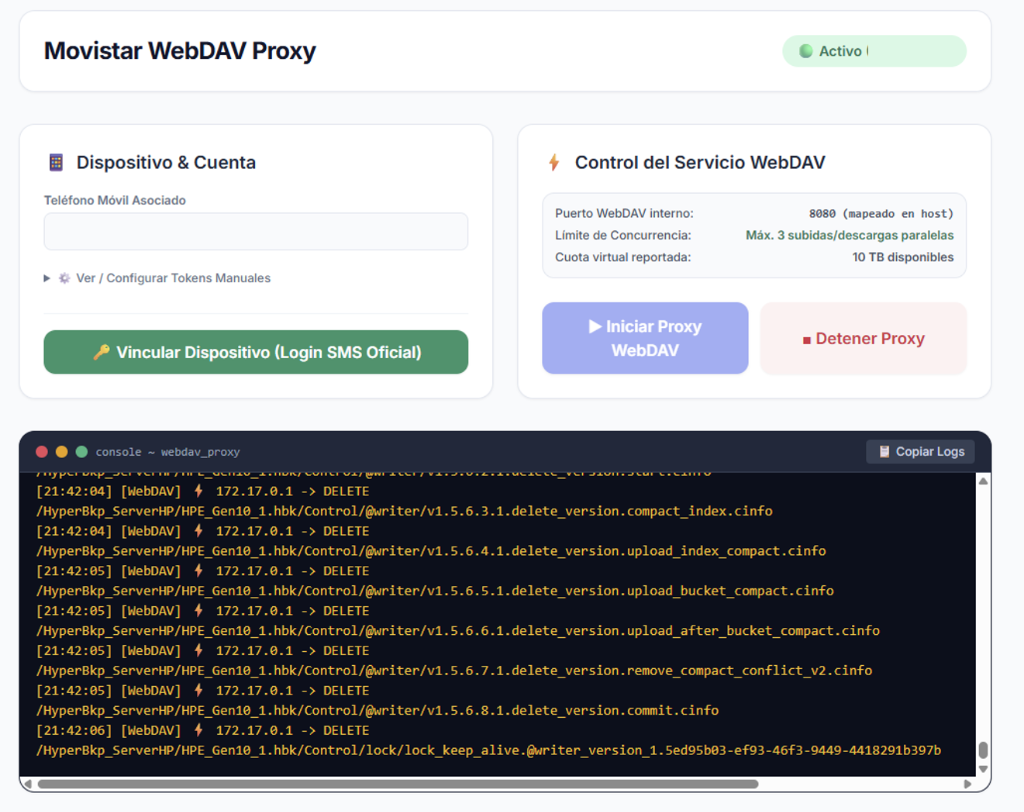
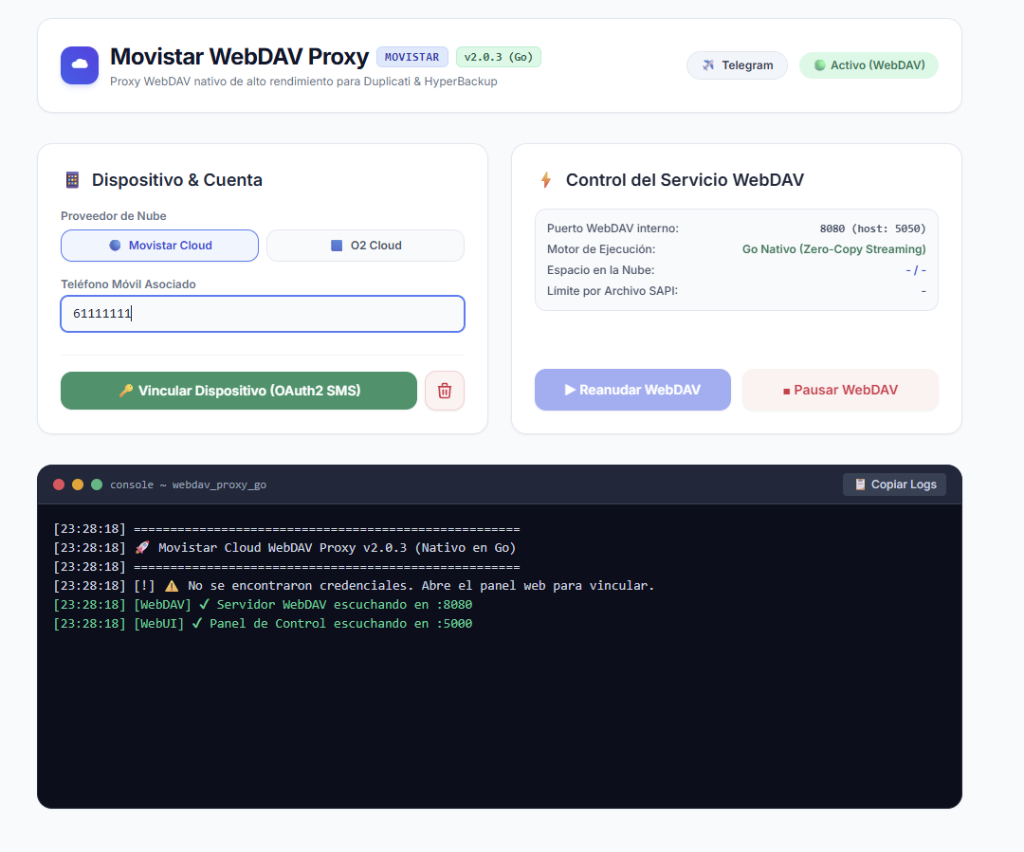
docs: add updated v2.0.3 dashboard screenshot with O2 Cloud selector and unlinking button to README

diff --git a/README.md b/README.md
@@ -16,11 +16,15 @@ Turn your unlimited Movistar Cloud storage into a transparent, secure, and remot
 > The original Python + Chromium/noVNC implementation is preserved in the [`legacy-python`](https://github.com/uniextra/MovistarWebDAVProxy/tree/legacy-python) branch.  
 > Version 2.0.0 is a complete ground-up rewrite in native Go, reducing container image size from **~1.34 GB down to ~20 MB** and RAM usage from **~150 MB down to ~6.5 MB**.
 
+<p align="center">
+  <img src="screenshot.png" alt="Movistar & O2 Cloud WebDAV Proxy Web Dashboard" width="850">
+</p>
+
 ---
 
 ## 🌟 Key Features
 
-* 🚀 **Ultra-Lightweight & Efficient (Native Go v2.0.0):**
+* 🚀 **Ultra-Lightweight & Efficient (Native Go):**
   * Standalone compiled binary running inside an Alpine scratch container (`~20 MB` image size).
   * Consumes only **~6.5 MB of RAM** under normal operation (down from 150 MB in Python).
   * Completely removes Chromium, Xvfb, Fluxbox, and noVNC dependencies.
